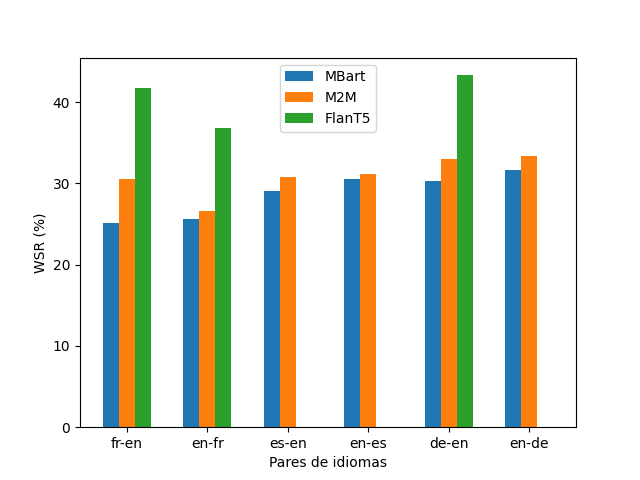
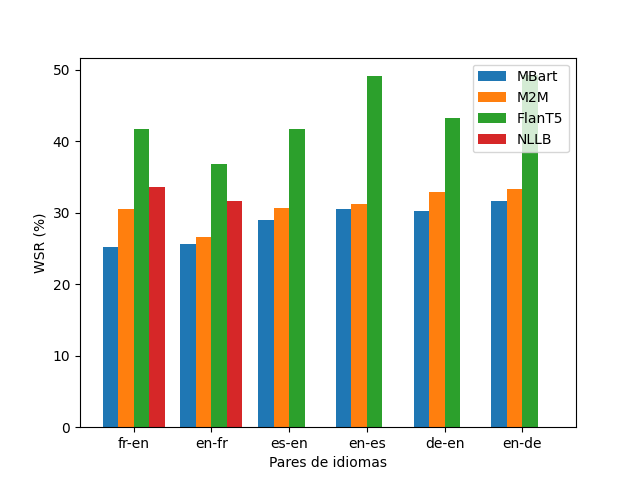
figuras += nllb

diff --git a/figuras/tabla.tex b/figuras/tabla.tex
@@ -1,30 +1,30 @@
-\begin{tabular}{llrrrr}
+\begin{tabular}{lllrr}
 \hline
- src   & trg   &   bleu &   ter &   wsr &   mar \\
+ modelo   & src   & trg   &   wsr &   mar \\
 \hline
- fr    & en    &  38.36 & 57.25 & 25.18 & 32.37 \\
- en    & fr    &  40.53 & 58.33 & 25.61 & 30.12 \\
- en    & de    &  35.21 & 64.72 & 31.61 & 28.13 \\
- de    & en    &  37.68 & 59.64 & 30.27 & 34.64 \\
- es    & en    &  37.47 & 60.24 & 29.02 & 32.96 \\
- en    & es    &  40.34 & 58.57 & 30.52 & 35.34 \\
- en    & fr    &  38.79 & 48.51 & 26.63 & 31.3  \\
- fr    & en    &  33.66 & 46.75 & 30.52 & 34.29 \\
- de    & en    &  29.33 & 51.06 & 32.96 & 38.79 \\
- en    & de    &  26.37 & 56.35 & 33.33 & 29.93 \\
- en    & es    &  33.15 & 47.66 & 31.17 & 32.38 \\
- es    & en    &  30.48 & 50.82 & 30.72 & 35.75 \\
- en    & fr    &  30.78 & 56.38 & 36.84 & 44.33 \\
- fr    & en    &  24.26 & 58.04 & 41.72 & 48.6  \\
- de    & en    &  21.49 & 61.36 & 43.3  & 50.63 \\
- en    & de    &  13.3  & 77.75 & 49.24 & 48.75 \\
- en    & es    &  17.67 & 61.84 & 49.1  & 51.47 \\
- es    & en    &  23.24 & 59.85 & 41.72 & 68.52 \\
- en    & fr    &  39.07 & 50.9  & 38.65 & 45.38 \\
- fr    & en    &  31.59 & 56.91 & 65.03 & 58.62 \\
- de    & en    &  30.98 & 53.02 &  0    &  0    \\
- en    & de    &   0    &  0    &  0    &  0    \\
- en    & es    &   0    &  0    &  0    &  0    \\
- es    & en    &   0    &  0    &  0    &  0    \\
+ MBart    & fr    & en    & 25.18 & 32.37 \\
+ MBart    & en    & fr    & 25.61 & 30.12 \\
+ MBart    & en    & de    & 31.61 & 28.13 \\
+ MBart    & de    & en    & 30.27 & 34.64 \\
+ MBart    & es    & en    & 29.02 & 32.96 \\
+ MBart    & en    & es    & 30.52 & 35.34 \\
+ M2M      & en    & fr    & 26.63 & 31.3  \\
+ M2M      & fr    & en    & 30.52 & 34.29 \\
+ M2M      & de    & en    & 32.96 & 38.79 \\
+ M2M      & en    & de    & 33.33 & 29.93 \\
+ M2M      & en    & es    & 31.17 & 32.38 \\
+ M2M      & es    & en    & 30.72 & 35.75 \\
+ FlanT5   & en    & fr    & 36.84 & 44.33 \\
+ FlanT5   & fr    & en    & 41.72 & 48.6  \\
+ FlanT5   & de    & en    & 43.3  & 50.63 \\
+ FlanT5   & en    & de    & 49.24 & 48.75 \\
+ FlanT5   & en    & es    & 49.1  & 51.47 \\
+ FlanT5   & es    & en    & 41.72 & 68.52 \\
+ NLLB     & en    & fr    & 31.65 & 50.11 \\
+ NLLB     & fr    & en    & 33.63 & 50.97 \\
+ NLLB     & de    & en    &  0    &  0    \\
+ NLLB     & en    & de    &  0    &  0    \\
+ NLLB     & en    & es    &  0    &  0    \\
+ NLLB     & es    & en    &  0    &  0    \\
 \hline
 \end{tabular}
